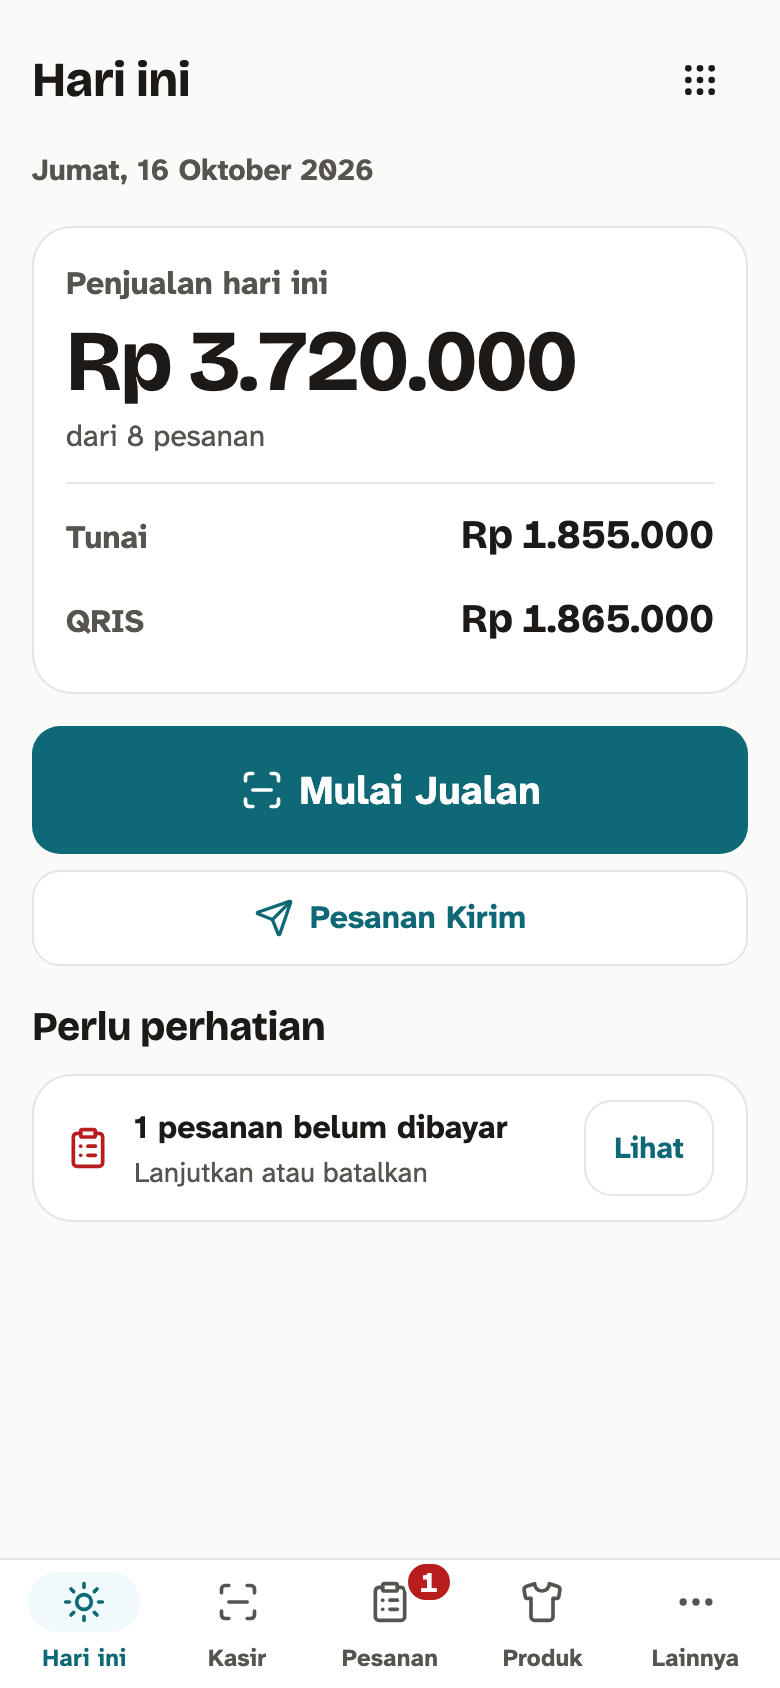
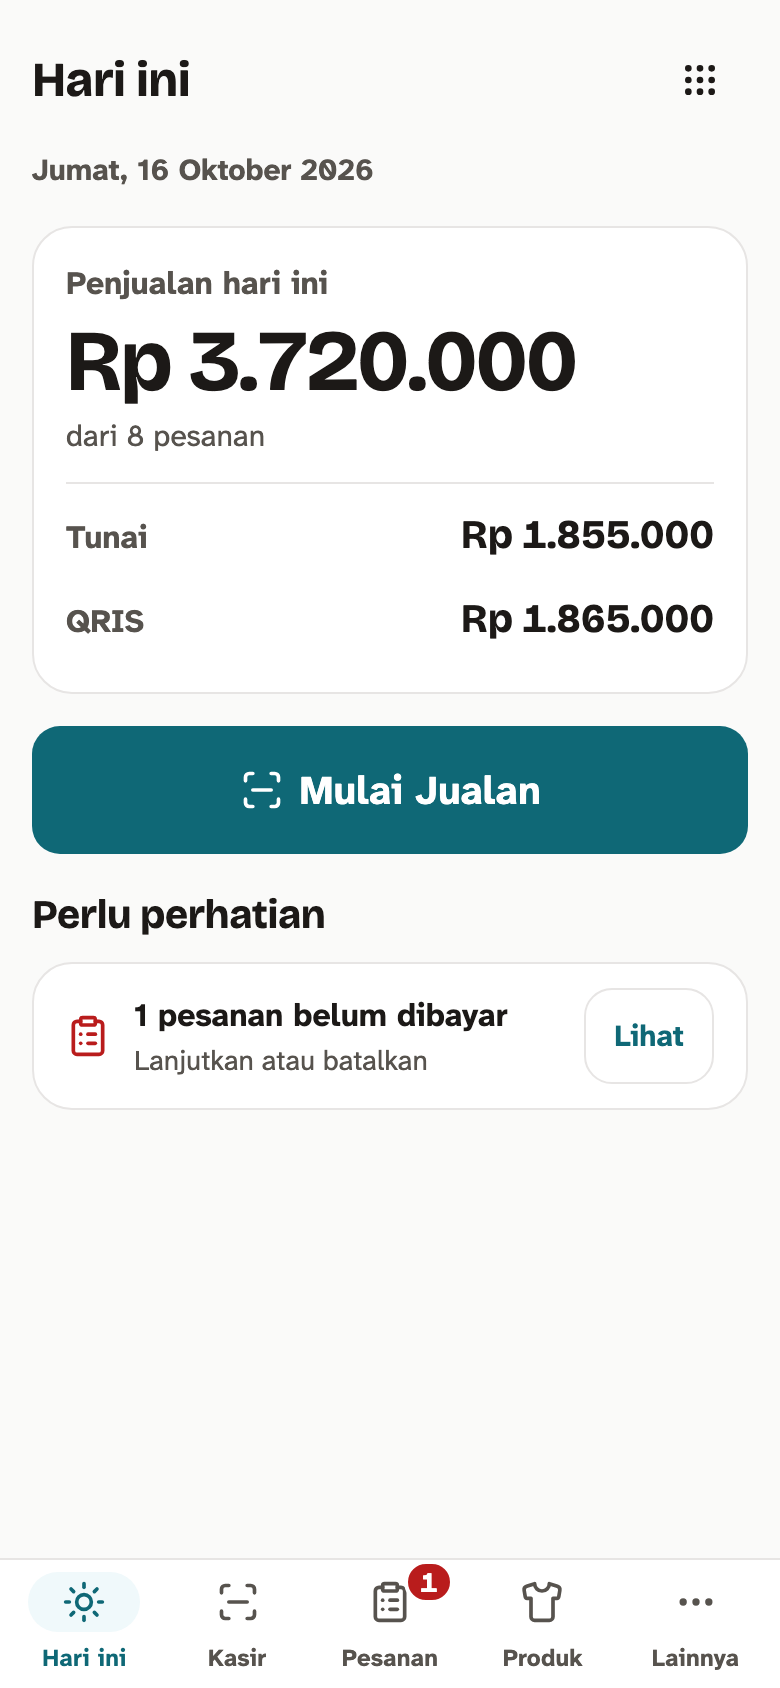
fix: hide Pesanan Kirim in the Laris Hari ini shot
The claim register does not publish Pesanan Kirim yet, so the shoot hides
its button (a[href="/kirim"]) with display:none and the Hari ini shot is
retaken without it.

Changed region(s): [[0.0308, 0.5853, 0.6462, 0.7085], [0.0308, 0.5237, 0.6769, 0.5545], [0.7692, 0.5853, 0.8923, 0.7085]]

diff --git a/scripts/shoot-local.ts b/scripts/shoot-local.ts
@@ -252,6 +252,8 @@ const HIDDEN_CSS = [
   "nextjs-portal",
   'button[aria-label="Laporkan Masalah"]',
   "p.banner:has(.lucide-flask-conical)",
+  // Laris "Pesanan Kirim" (shipping orders) is not on the published claim register yet.
+  'a[href="/kirim"]',
 ].join(",") + "{display:none!important}";
 
 async function newContext(browser: Browser, device: Device, session: Session | null): Promise<BrowserContext> {
@@ -266,8 +268,8 @@ async function newContext(browser: Browser, device: Device, session: Session | n
     const host = new URL(route.request().url()).hostname;
     return host === "admos.id" || host.endsWith(".admos.id") ? route.abort() : route.fallback();
   });
-  // Hidden: the Next dev overlay, the bug-report button, and the "Mode uji" banner
-  // that the local QRIS stand-in (scripts/fake-duitku.ts) triggers.
+  // Hidden: the Next dev overlay, the bug-report button, the "Mode uji" banner that
+  // the local QRIS stand-in (scripts/fake-duitku.ts) triggers, and Pesanan Kirim.
   await context.addInitScript((css) => {
     const hide = () => {
       const style = document.createElement("style");
